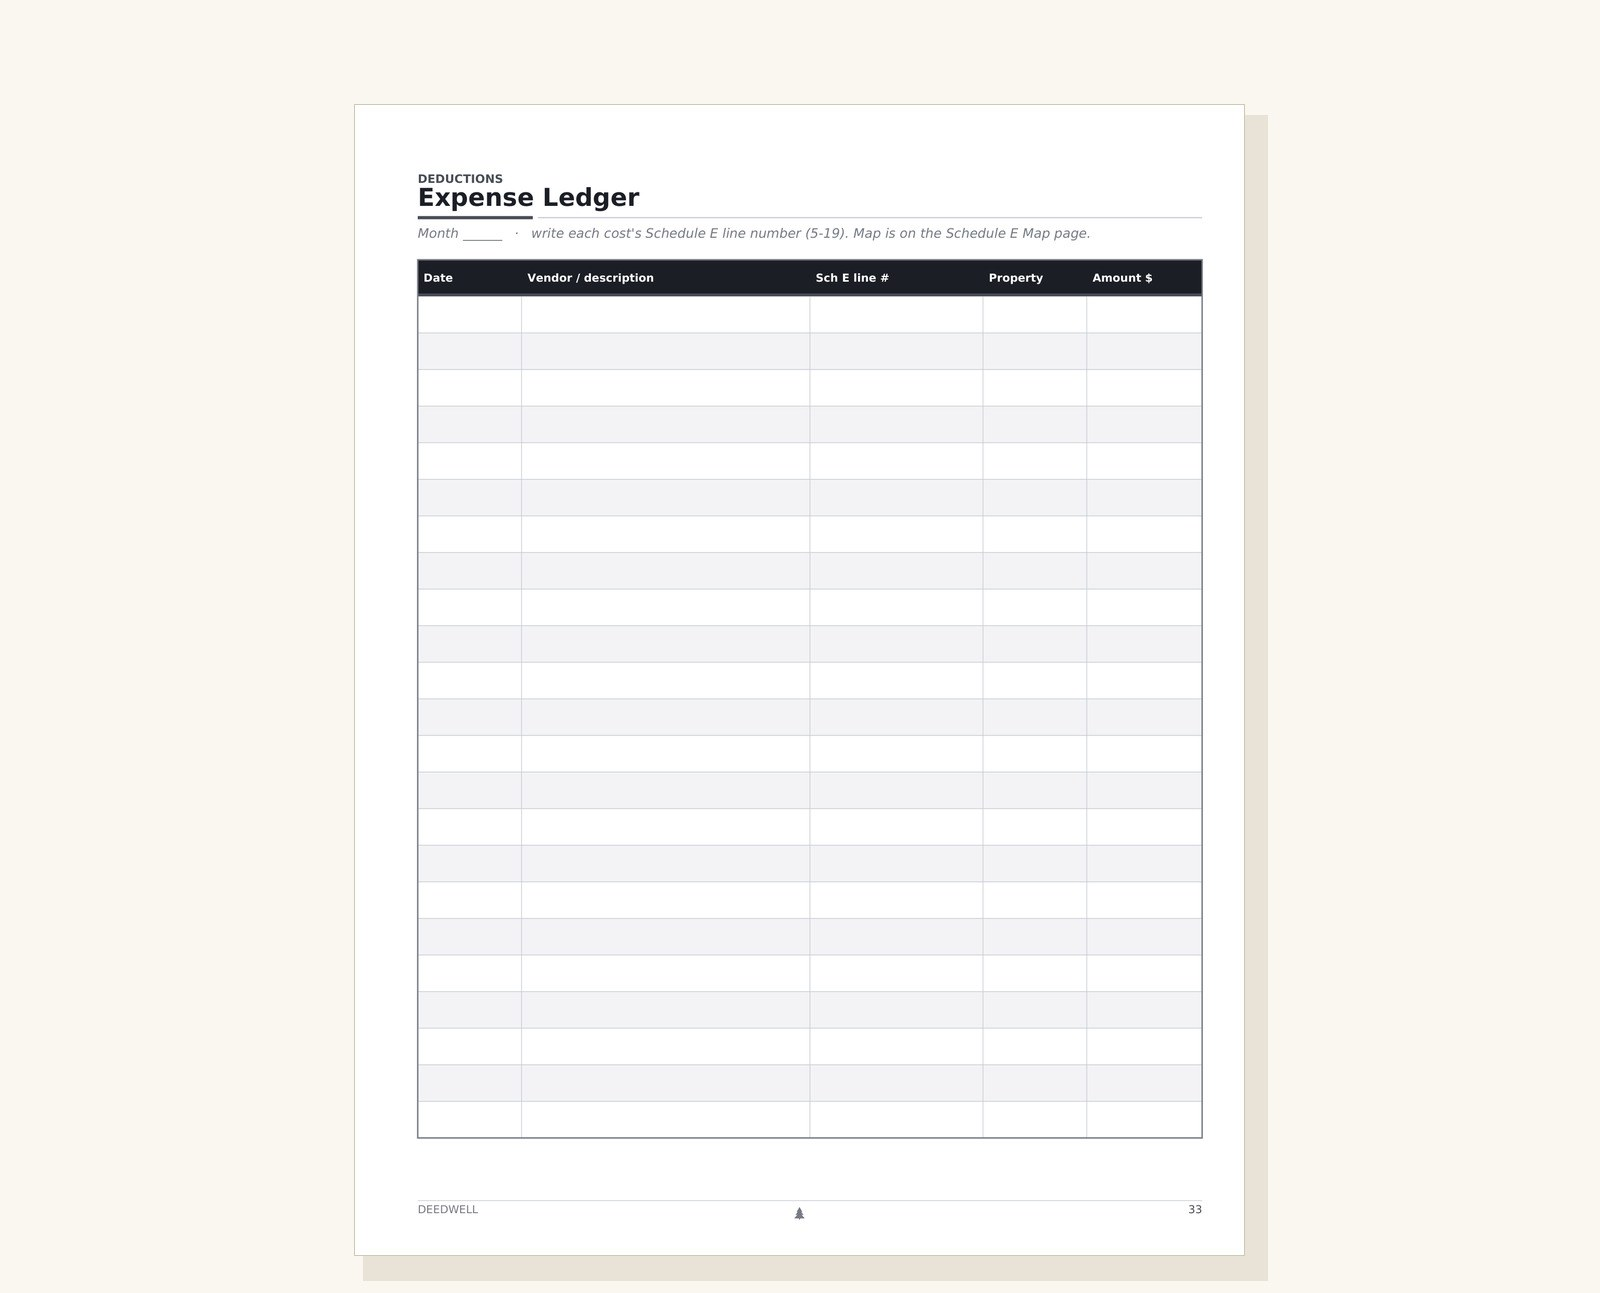
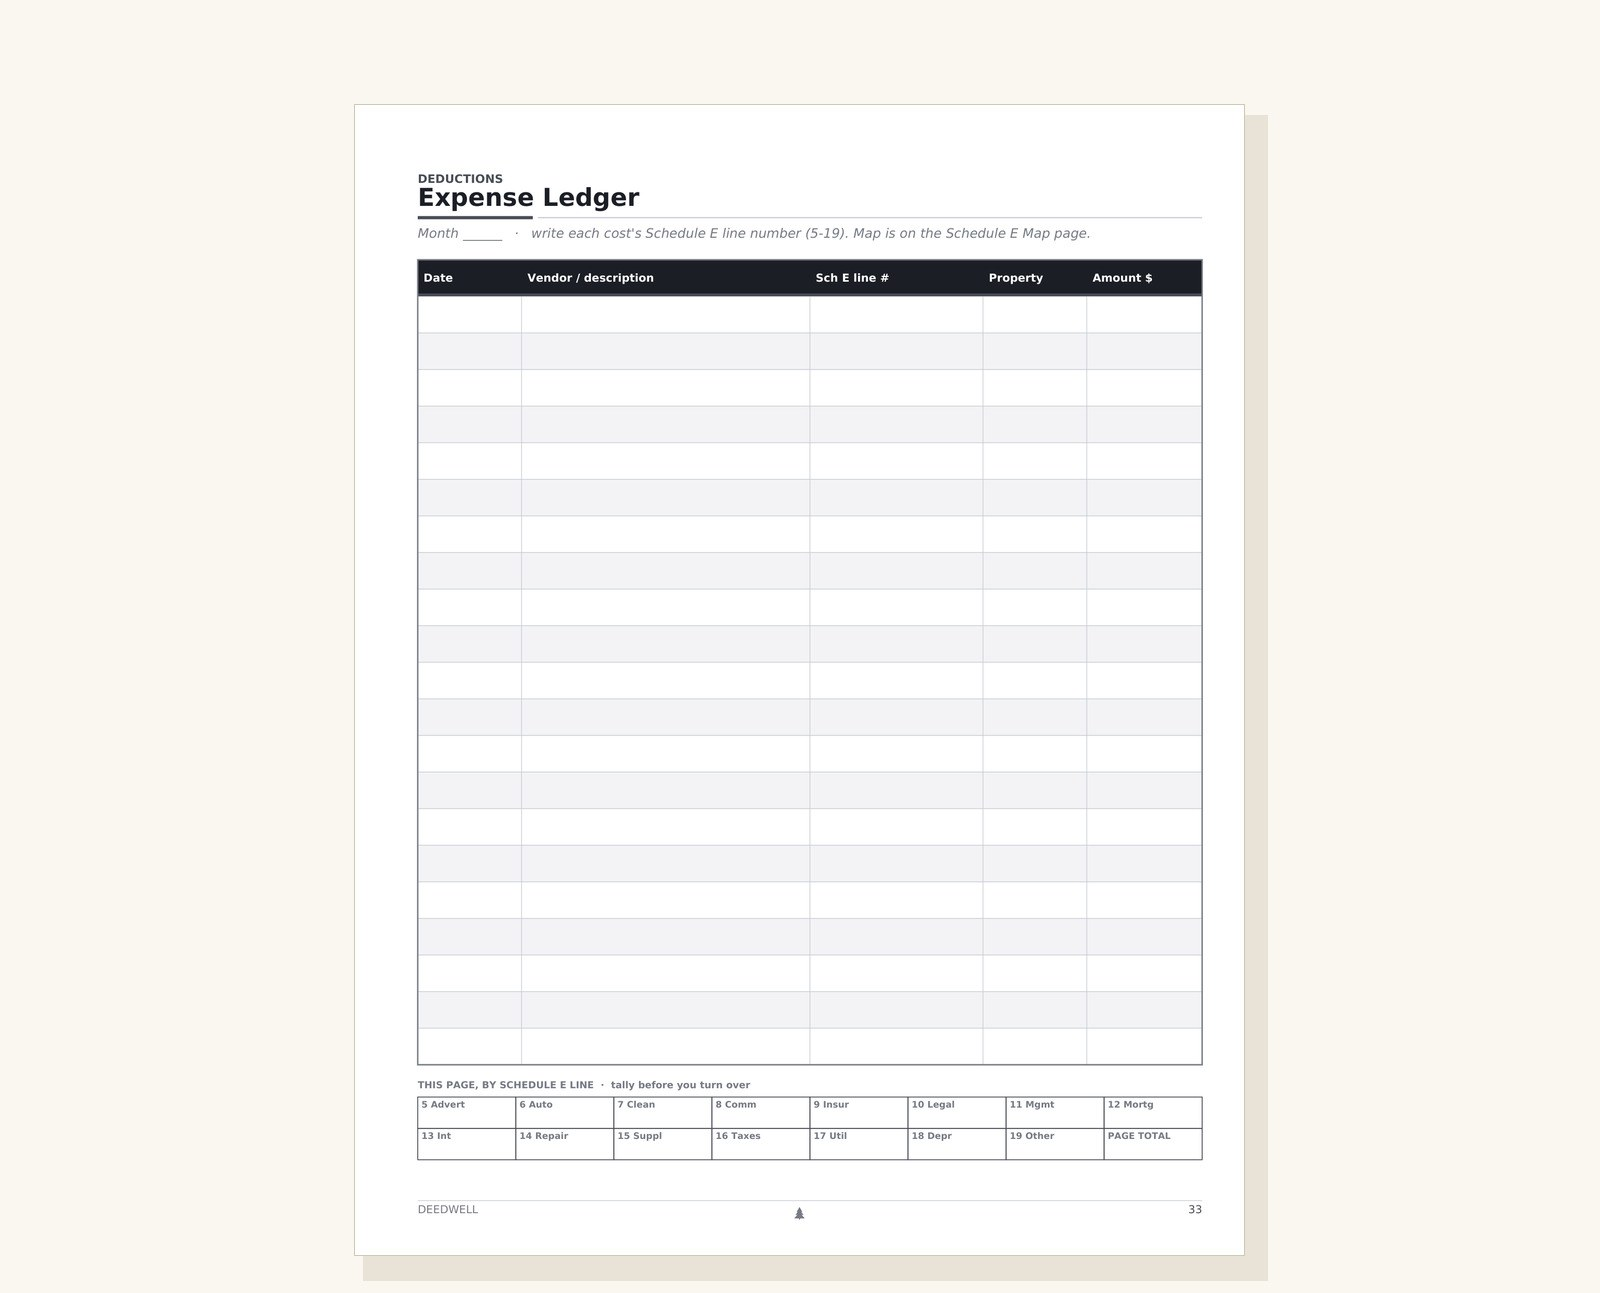
refresh the proof images - they were showing a book we no longer ship
The book was rebuilt at 02:12 today (tally strip, mileage citation, page-1
claims). The Amazon listing images were from 16:08 YESTERDAY and the site's
interior images from 22:11. Both predate every one of those changes.

So the site claimed a per-page tally strip while showing a ledger photograph
without one - which is precisely the defect the audit caught elsewhere ('they
showed me the page and then described a different page'). Shipping proof that
does not match the product is worse than shipping no proof.

All six regenerated from the current PDF; the builder re-verified each caption's
factual claims against the page text before rendering. Asset version bumped to
v=4 so nobody is served the stale set from cache.

Changed region(s): [[0.25, 0.8353, 0.75, 0.8971]]

diff --git a/index.html b/index.html
@@ -295,7 +295,7 @@ footer .legal{display:flex;flex-wrap:wrap;gap:14px;justify-content:space-between
     </div>
 
     <div class="shot">
-      <img src="/assets/cover.jpg?v=3" width="1000" height="1295" fetchpriority="high"
+      <img src="/assets/cover.jpg?v=4" width="1000" height="1295" fetchpriority="high"
            alt="Cover of the Deedwell Rental Property Record Book: a lit craftsman cottage at dusk above a deep green band with the title in gold.">
       <p class="tagband"><span><b>Rent roll</b></span><span><b>Income &amp; expenses</b></span><span><b>Mileage</b></span><span><b>Schedule E</b></span></p>
     </div>
@@ -316,7 +316,7 @@ footer .legal{display:flex;flex-wrap:wrap;gap:14px;justify-content:space-between
       <p style="font-size:.88rem;color:var(--dim);margin-top:16px" class="measure">The printed record book is in production for Amazon at <strong class="num">$11.99</strong>. The free checklist below is the same thinking, on one page, today.</p>
     </div>
     <figure>
-      <img src="/assets/map.jpg?v=3" width="1600" height="1293" loading="lazy" decoding="async"
+      <img src="/assets/map.jpg?v=4" width="1600" height="1293" loading="lazy" decoding="async"
            alt="Page 5, Your Schedule E Map: a table pairing IRS Schedule E lines 3 and 5 through 19 with plain-English descriptions of what belongs on each line.">
       <figcaption>Page&nbsp;5 &mdash; Your Schedule&nbsp;E Map. Lines per the 2025 IRS Instructions for Schedule&nbsp;E (Form&nbsp;1040).</figcaption>
     </figure>
@@ -359,27 +359,27 @@ footer .legal{display:flex;flex-wrap:wrap;gap:14px;justify-content:space-between
     </div>
     <div class="pages">
       <figure>
-        <img src="/assets/worked.jpg?v=3" width="1600" height="1293" loading="lazy" decoding="async"
+        <img src="/assets/worked.jpg?v=4" width="1600" height="1293" loading="lazy" decoding="async"
              alt="A fully worked example month, filled in, showing what a completed month of records looks like.">
         <figcaption>A worked example month, filled in, so you see the finished result first.</figcaption>
       </figure>
       <figure>
-        <img src="/assets/mileage.jpg?v=3" width="1600" height="1293" loading="lazy" decoding="async"
+        <img src="/assets/mileage.jpg?v=4" width="1600" height="1293" loading="lazy" decoding="async"
              alt="The mileage log, with separate bands for the two 2026 IRS standard mileage rates and a split year-total.">
         <figcaption>The mileage log, with both 2026 rates split by trip date.</figcaption>
       </figure>
       <figure>
-        <img src="/assets/repairs.jpg?v=3" width="1600" height="1293" loading="lazy" decoding="async"
+        <img src="/assets/repairs.jpg?v=4" width="1600" height="1293" loading="lazy" decoding="async"
              alt="The repairs versus improvements decision tracker.">
         <figcaption>Repairs vs. improvements: the call that most often goes wrong.</figcaption>
       </figure>
       <figure>
-        <img src="/assets/rent.jpg?v=3" width="1600" height="1293" loading="lazy" decoding="async"
+        <img src="/assets/rent.jpg?v=4" width="1600" height="1293" loading="lazy" decoding="async"
              alt="A monthly rent roll page with a row for each property and each month's rent received.">
         <figcaption>Monthly rent rolls, twelve of them.</figcaption>
       </figure>
       <figure>
-        <img src="/assets/ledger.jpg?v=3" width="1600" height="1293" loading="lazy" decoding="async"
+        <img src="/assets/ledger.jpg?v=4" width="1600" height="1293" loading="lazy" decoding="async"
              alt="The full-year expense ledger, with columns matching the Schedule E expense categories.">
         <figcaption>The full-year expense ledger. Every entry carries its Schedule&nbsp;E line, and each page ends in a tally strip &mdash; so the year-end page is addition, not sorting.</figcaption>
       </figure>
